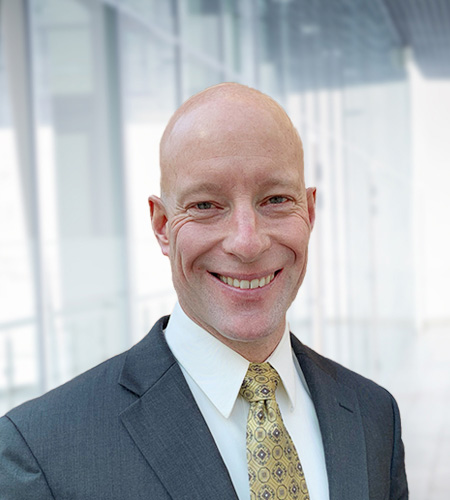
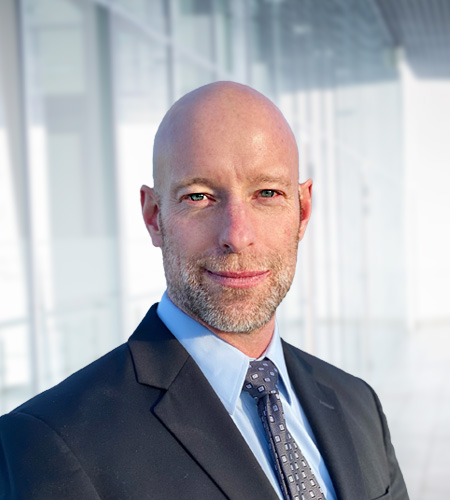
Add new article

diff --git a/store/index.js b/store/index.js
@@ -44,7 +44,8 @@ export const mutations = {
 
 export const actions = {
   async getArticles({ commit }) {
-    const api = await axios.get('https://csi-web3-resources-default-rtdb.firebaseio.com/articles.json')
+    // For test use > articles-test.json
+    const api = await axios.get('https://csi-web3-resources-default-rtdb.firebaseio.com/articles-test.json')
     const payload = api.data.sort((a, b) => new Date(b.date) - new Date(a.date))
     commit('setArticles', payload)
   },
@@ -58,7 +59,7 @@ export const actions = {
     commit('setCurrentPage', payload)
   },
   async getArticleByID({ commit }, id) {
-    const api = await axios.get('https://csi-web3-resources-default-rtdb.firebaseio.com/articles.json')
+    const api = await axios.get('https://csi-web3-resources-default-rtdb.firebaseio.com/articles-test.json')
     const payload = api.data.filter((res) => res.id === id)
     commit('setCurrentArticle', payload[0])
   },

diff --git a/nuxt.config.js b/nuxt.config.js
@@ -50,7 +50,7 @@ export default {
   },
   ssr: false,
   generate: {
-    dir: 'CSI-V2.1-05032022',
+    dir: 'Test-V2.1-05062022',
     routes: dynamicRoutes,
   },
 
